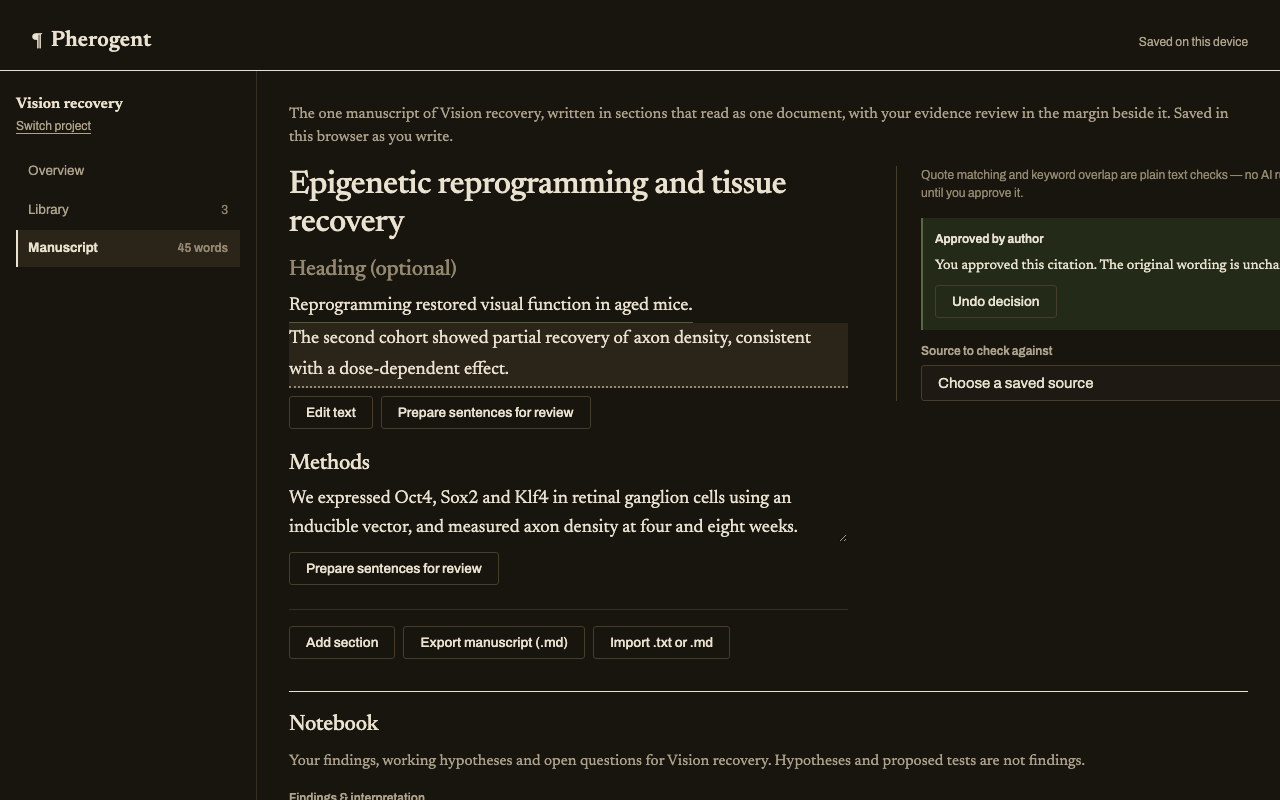
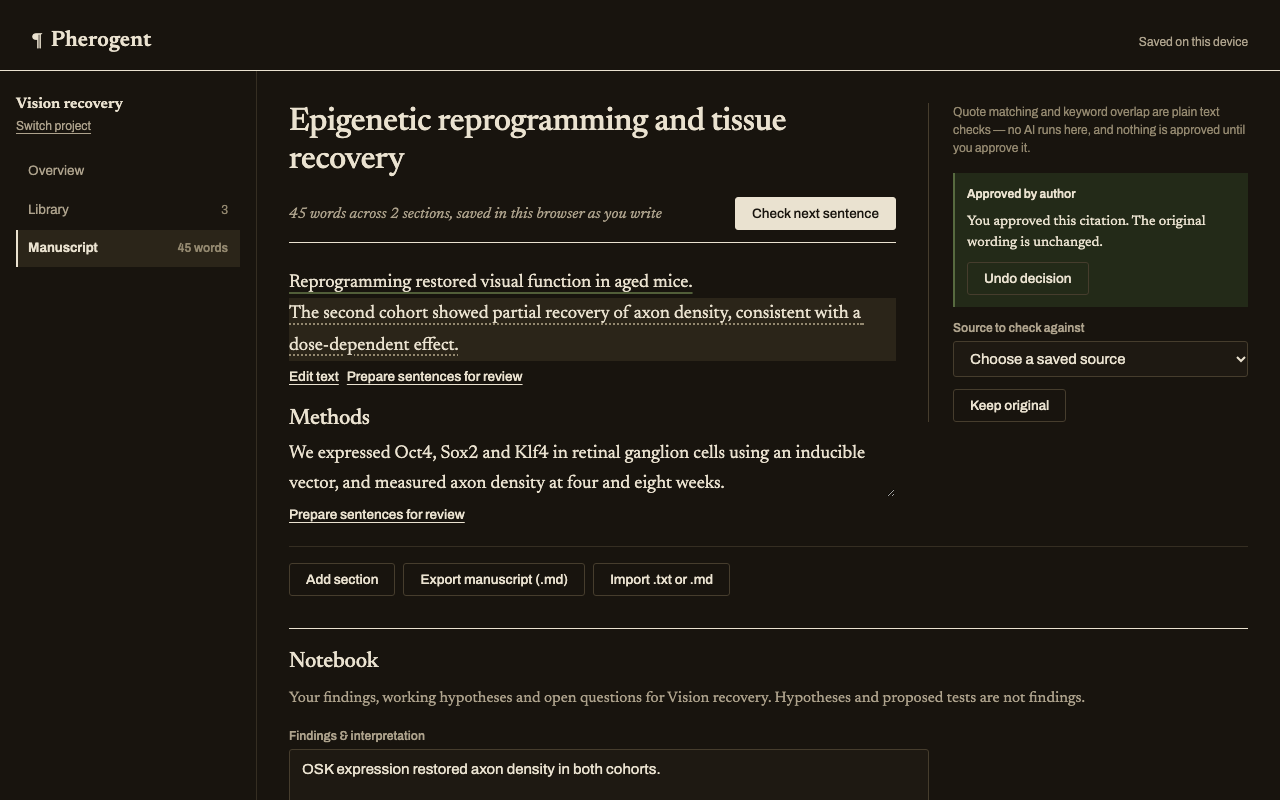
Refine the proof-sheet from the owner's review
Fixes from the #21 review round: the text column now flexes so the
proof sheet and margin fit at laptop widths (the fixed 44rem + 22rem
pair overflowed a 1280px viewport, and a select sized itself to its
longest paper title; margin fields are pinned to the column), with the
margin dropping below the text under 1080px. Per-Section Edit text and
Prepare become quiet links, one primary "Check next sentence" action
sits in the document head — opening the next undecided sentence or
preparing the next Section or batch — and Add section / Export / Import
move below the reading flow. The reading view no longer renders an
empty "Heading (optional)" field, the intro paragraph became the
prototype's page head (title over an italic words-and-sections line),
and evidence-state underlines are offset below descenders for
legibility. Keep original now works without a source selected (owner
decision); all #9/#18/#22 behavior and the domain suite are unchanged.

Changed region(s): [[0.2188, 0.125, 1.0, 0.75], [0.2188, 0.7812, 0.8438, 1.0]]

diff --git a/src/manuscript/ManuscriptPanel.tsx b/src/manuscript/ManuscriptPanel.tsx
@@ -5,6 +5,7 @@ import {
   defaultManuscript,
   manuscriptFromText,
   manuscriptMarkdown,
+  manuscriptWordCount,
   withManuscriptUpdate,
   withSectionAdded,
   withSectionRemoved,
@@ -156,13 +157,26 @@ export function ManuscriptPanel({ project, onProjectChange }: ManuscriptPanelPro
   const activeId =
     selectedId && undecidedIds.includes(selectedId) ? selectedId : undecidedIds[0];
 
+  /** The page's one primary action: open the next sentence to check, or
+   * prepare the next Section (or batch) that has something to review. */
+  const checkNext = () => {
+    if (undecidedIds.length) {
+      setSelectedId(undecidedIds[0]);
+      return;
+    }
+    const candidate = manuscript.sections.find((section) => {
+      if (!section.text.trim()) return false;
+      const { proof } = passState(section);
+      return !proof || proof.sentences.every((sentence) => sentence.decision);
+    });
+    if (candidate) prepare(candidate);
+  };
+
+  const words = manuscriptWordCount(project);
+  const sectionCount = manuscript.sections.length;
+
   return (
     <div className="manuscript-page">
-      <p className="manuscript-hint">
-        The one manuscript of {project.name}, written in sections that read as
-        one document, with your evidence review in the margin beside it.
-        Saved in this browser as you write.
-      </p>
       <div className="proof-doc">
         <div className="manuscript-doc">
           {/* A textarea so a long title wraps in the reading column the way
@@ -182,24 +196,38 @@ export function ManuscriptPanel({ project, onProjectChange }: ManuscriptPanelPro
               )
             }
           />
+          <div className="manuscript-doc-sub-row">
+            <p className="manuscript-doc-sub">
+              {words === 1 ? "1 word" : `${words.toLocaleString()} words`} across{" "}
+              {sectionCount === 1 ? "1 section" : `${sectionCount} sections`}, saved
+              in this browser as you write
+            </p>
+            <Button variant="primary" onClick={checkNext}>
+              Check next sentence
+            </Button>
+          </div>
           {manuscript.sections.map((section, index) => {
             const { stale, proof } = passState(section);
             return (
               <div key={section.id} className="manuscript-section">
-                <input
-                  className="manuscript-heading"
-                  aria-label={`Section ${index + 1} heading`}
-                  maxLength={300}
-                  value={section.heading}
-                  placeholder={index === 0 ? "Heading (optional)" : "Section heading"}
-                  onChange={(event) =>
-                    onProjectChange(
-                      withSectionUpdate(project, section.id, {
-                        heading: event.currentTarget.value,
-                      }),
-                    )
-                  }
-                />
+                {/* The reading view shows no empty heading field; add a
+                    heading from the section's edit view. */}
+                {(!proof || section.heading) && (
+                  <input
+                    className="manuscript-heading"
+                    aria-label={`Section ${index + 1} heading`}
+                    maxLength={300}
+                    value={section.heading}
+                    placeholder={index === 0 ? "Heading (optional)" : "Section heading"}
+                    onChange={(event) =>
+                      onProjectChange(
+                        withSectionUpdate(project, section.id, {
+                          heading: event.currentTarget.value,
+                        }),
+                      )
+                    }
+                  />
+                )}
                 {proof ? (
                   <>
                     <p className="proof-section-text">
@@ -221,13 +249,13 @@ export function ManuscriptPanel({ project, onProjectChange }: ManuscriptPanelPro
                       )}
                     </p>
                     <div className="proof-section-actions">
-                      <Button onClick={() => setEditing(section.id, true)}>
+                      <Button variant="link" onClick={() => setEditing(section.id, true)}>
                         Edit text
                       </Button>
                       {/* Re-preparing walks the Section in batches (ADR
                           0005): decisions on unchanged sentences carry
                           over and the next undecided sentences open. */}
-                      <Button onClick={() => prepare(section)}>
+                      <Button variant="link" onClick={() => prepare(section)}>
                         Prepare sentences for review
                       </Button>
                     </div>
@@ -262,12 +290,13 @@ export function ManuscriptPanel({ project, onProjectChange }: ManuscriptPanelPro
                     )}
                     <div className="proof-section-actions">
                       {section.text.trim() && (
-                        <Button onClick={() => prepare(section)}>
+                        <Button variant="link" onClick={() => prepare(section)}>
                           Prepare sentences for review
                         </Button>
                       )}
                       {!section.heading && !section.text && manuscript.sections.length > 1 && (
                         <Button
+                          variant="link"
                           aria-label={`Remove section ${index + 1}`}
                           onClick={() =>
                             onProjectChange(withSectionRemoved(project, section.id))
@@ -287,13 +316,6 @@ export function ManuscriptPanel({ project, onProjectChange }: ManuscriptPanelPro
               {prepareNotice}
             </p>
           )}
-          <div className="manuscript-actions">
-            <Button onClick={() => onProjectChange(withSectionAdded(project))}>
-              Add section
-            </Button>
-            <Button onClick={download}>Export manuscript (.md)</Button>
-            <Button onClick={() => fileInput.current?.click()}>Import .txt or .md</Button>
-          </div>
         </div>
         <aside className="proof-margin" aria-label="Evidence review">
           <ReviewMargin
@@ -302,6 +324,14 @@ export function ManuscriptPanel({ project, onProjectChange }: ManuscriptPanelPro
             selectedId={activeId}
           />
         </aside>
+      </div>
+      {/* Document chores sit below the reading flow. */}
+      <div className="manuscript-actions">
+        <Button onClick={() => onProjectChange(withSectionAdded(project))}>
+          Add section
+        </Button>
+        <Button onClick={download}>Export manuscript (.md)</Button>
+        <Button onClick={() => fileInput.current?.click()}>Import .txt or .md</Button>
       </div>
       <input
         ref={fileInput}

diff --git a/src/manuscript/manuscript.css b/src/manuscript/manuscript.css
@@ -98,11 +98,35 @@
 /* The proof-sheet (issue #21): the reading column beside the evidence
    margin, separated by a hairline — one continuous document, not cards. */
 
+/* The text column flexes so text plus margin always fit the page (the
+   fixed 44rem + 22rem pair overflowed laptop widths); the reading
+   measure is capped on .manuscript-doc itself. */
 .proof-doc {
   display: grid;
-  grid-template-columns: minmax(0, 44rem) minmax(16rem, 22rem);
-  gap: var(--space-4) var(--space-7);
+  grid-template-columns: minmax(0, 1fr) minmax(0, 20rem);
+  gap: var(--space-4) var(--space-6);
   align-items: start;
+}
+
+.manuscript-doc-sub-row {
+  display: flex;
+  flex-wrap: wrap;
+  align-items: baseline;
+  gap: var(--space-2) var(--space-4);
+  margin-bottom: var(--space-5);
+  padding-bottom: var(--space-3);
+  border-bottom: 1px solid var(--color-ink);
+}
+
+.manuscript-doc-sub {
+  margin: 0;
+  font-style: italic;
+  font-size: var(--text-base);
+  color: var(--color-ink-soft);
+}
+
+.manuscript-doc-sub-row > :last-child {
+  margin-left: auto;
 }
 
 .proof-margin {
@@ -139,21 +163,34 @@
 }
 
 /* Quiet marks for settled states; stronger color only where the
-   evidence stands unresolved (ADR 0003). */
+   evidence stands unresolved (ADR 0003). Offset underlines clear the
+   descenders so each state reads at a glance. */
 .proof-s-approve {
-  border-bottom: 1px solid var(--color-ok-faint);
+  text-decoration: underline;
+  text-decoration-color: var(--color-ok-faint);
+  text-decoration-thickness: 2px;
+  text-underline-offset: 5px;
 }
 
 .proof-s-keep {
-  border-bottom: 2px solid var(--color-warn);
+  text-decoration: underline;
+  text-decoration-color: var(--color-warn);
+  text-decoration-thickness: 2px;
+  text-underline-offset: 5px;
 }
 
 .proof-s-flag {
-  border-bottom: 2px solid var(--color-bad);
+  text-decoration: underline;
+  text-decoration-color: var(--color-bad);
+  text-decoration-thickness: 2px;
+  text-underline-offset: 5px;
 }
 
 .proof-s-unchecked {
-  border-bottom: 2px dotted var(--color-mute);
+  text-decoration: underline dotted;
+  text-decoration-color: var(--color-mute);
+  text-decoration-thickness: 2px;
+  text-underline-offset: 5px;
 }
 
 .proof-s[aria-pressed="true"] {
@@ -167,7 +204,9 @@
   margin-top: var(--space-2);
 }
 
-@media (max-width: 920px) {
+/* Below a comfortable two-column width, the margin drops under the
+   text as the prototype's notes do. */
+@media (max-width: 1080px) {
   .proof-doc {
     grid-template-columns: minmax(0, 1fr);
   }

diff --git a/src/review/ReviewMargin.tsx b/src/review/ReviewMargin.tsx
@@ -342,10 +342,10 @@ function SentenceEditor({
           />
         </>
       )}
-      {/* Both actions appear once a source is under inspection, matching
-          the #9 panel exactly (relayout, not redesign). */}
-      {sentence.paperId && (
-        <div className="review-actions">
+      {/* Keeping the original needs no source (owner decision on #21);
+          the assessment-based decision still requires one. */}
+      <div className="review-actions">
+        {sentence.paperId && (
           <Button
             variant="primary"
             disabled={!canDecide(project, sentence)}
@@ -353,11 +353,11 @@ function SentenceEditor({
           >
             {decideLabel(sentence)}
           </Button>
-          <Button onClick={() => onProjectChange(keepOriginal(project, sentence.id))}>
-            Keep original
-          </Button>
-        </div>
-      )}
+        )}
+        <Button onClick={() => onProjectChange(keepOriginal(project, sentence.id))}>
+          Keep original
+        </Button>
+      </div>
     </div>
   );
 }

diff --git a/src/review/ReviewMargin.test.tsx b/src/review/ReviewMargin.test.tsx
@@ -165,6 +165,13 @@ describe("the review flow in the proof-sheet margin", () => {
     expect(screen.queryByLabelText("Evidence passage")).toBeNull();
   });
 
+  it("records keep original without a source selected", () => {
+    render(<Harness initial={projectFixture("First sentence is long enough here.")} />);
+    prepare();
+    fireEvent.click(screen.getByRole("button", { name: "Keep original" }));
+    expect(within(margin()).getByText("Original wording kept")).toBeTruthy();
+  });
+
   it("opens the next undecided sentence's controls after a decision", () => {
     render(
       <Harness

diff --git a/src/review/review.css b/src/review/review.css
@@ -36,6 +36,14 @@
   gap: var(--space-3);
 }
 
+/* A select sizes to its longest option (a paper title), so pin every
+   field to the margin's width instead of letting it widen the column. */
+.review-margin .ui-input {
+  width: 100%;
+  max-width: 100%;
+  box-sizing: border-box;
+}
+
 .review-notice,
 .review-stale {
   margin: var(--space-2) 0 0;
